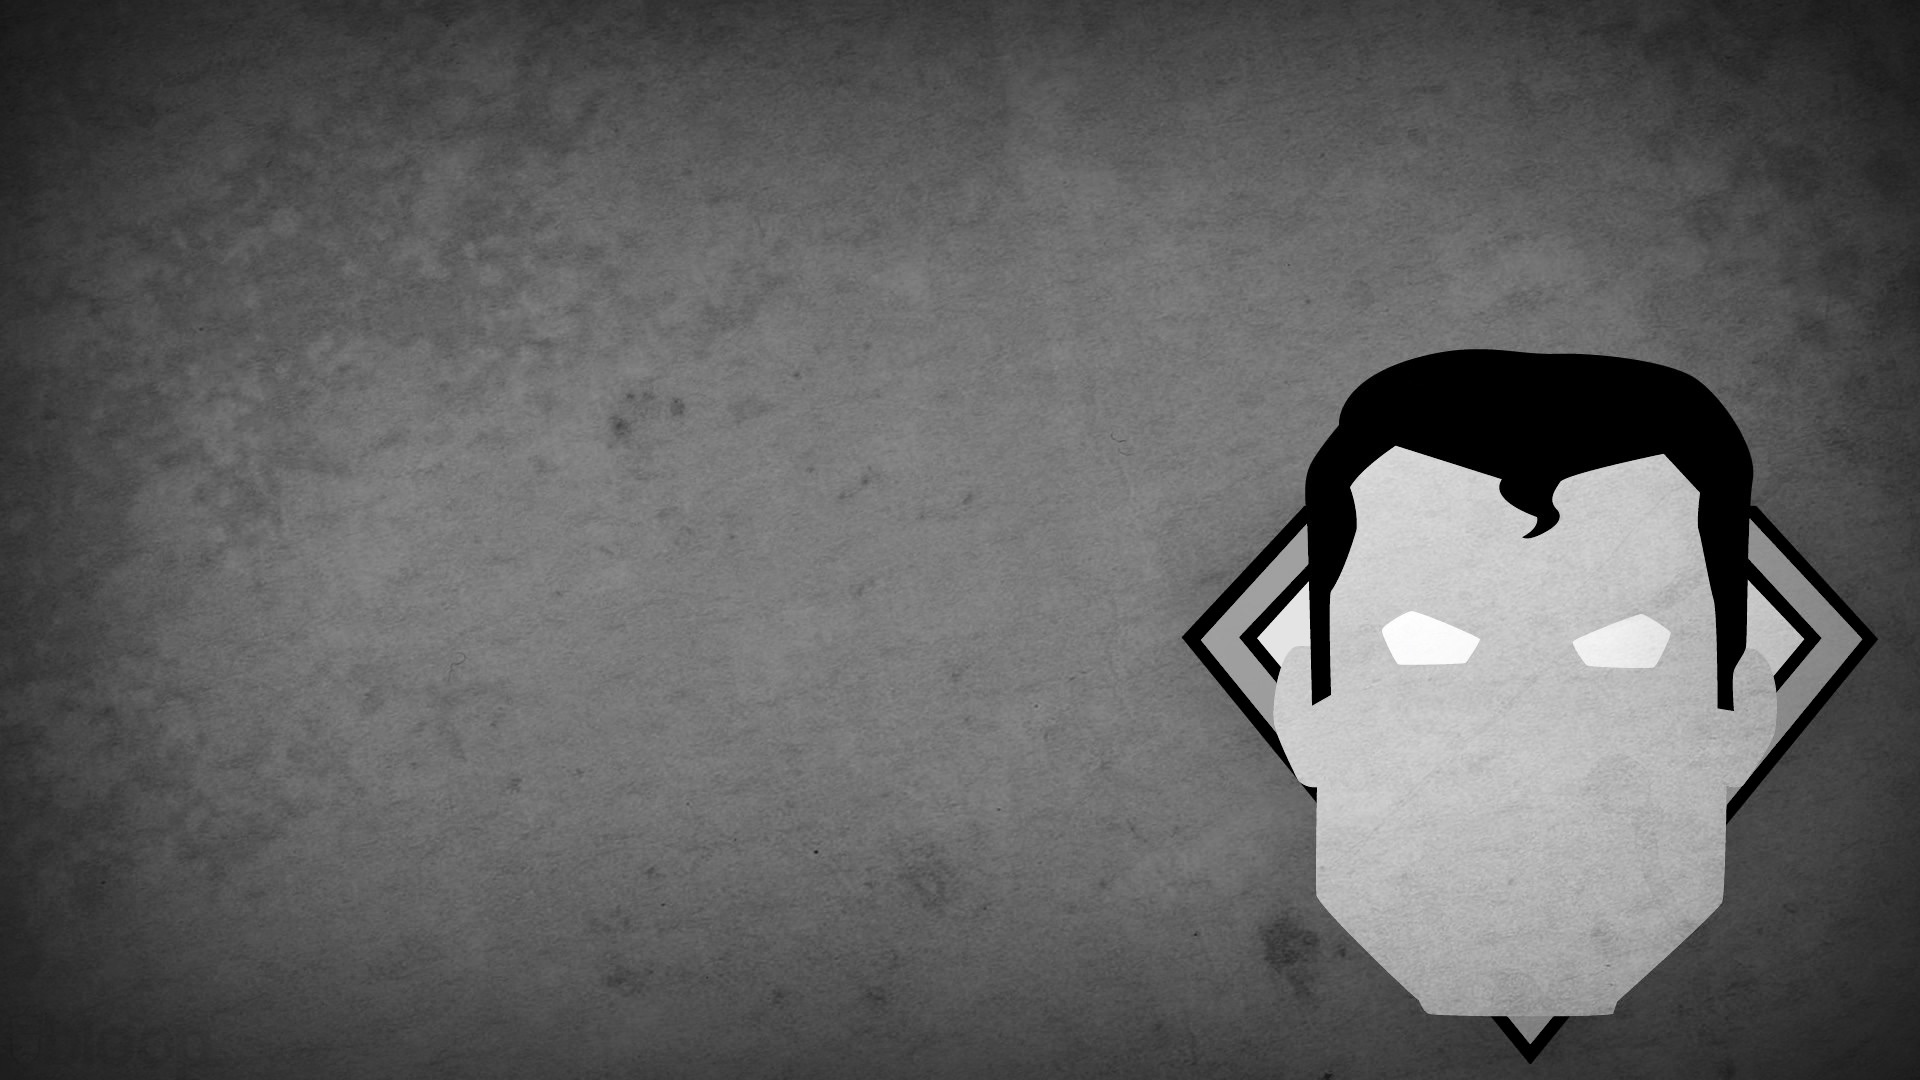
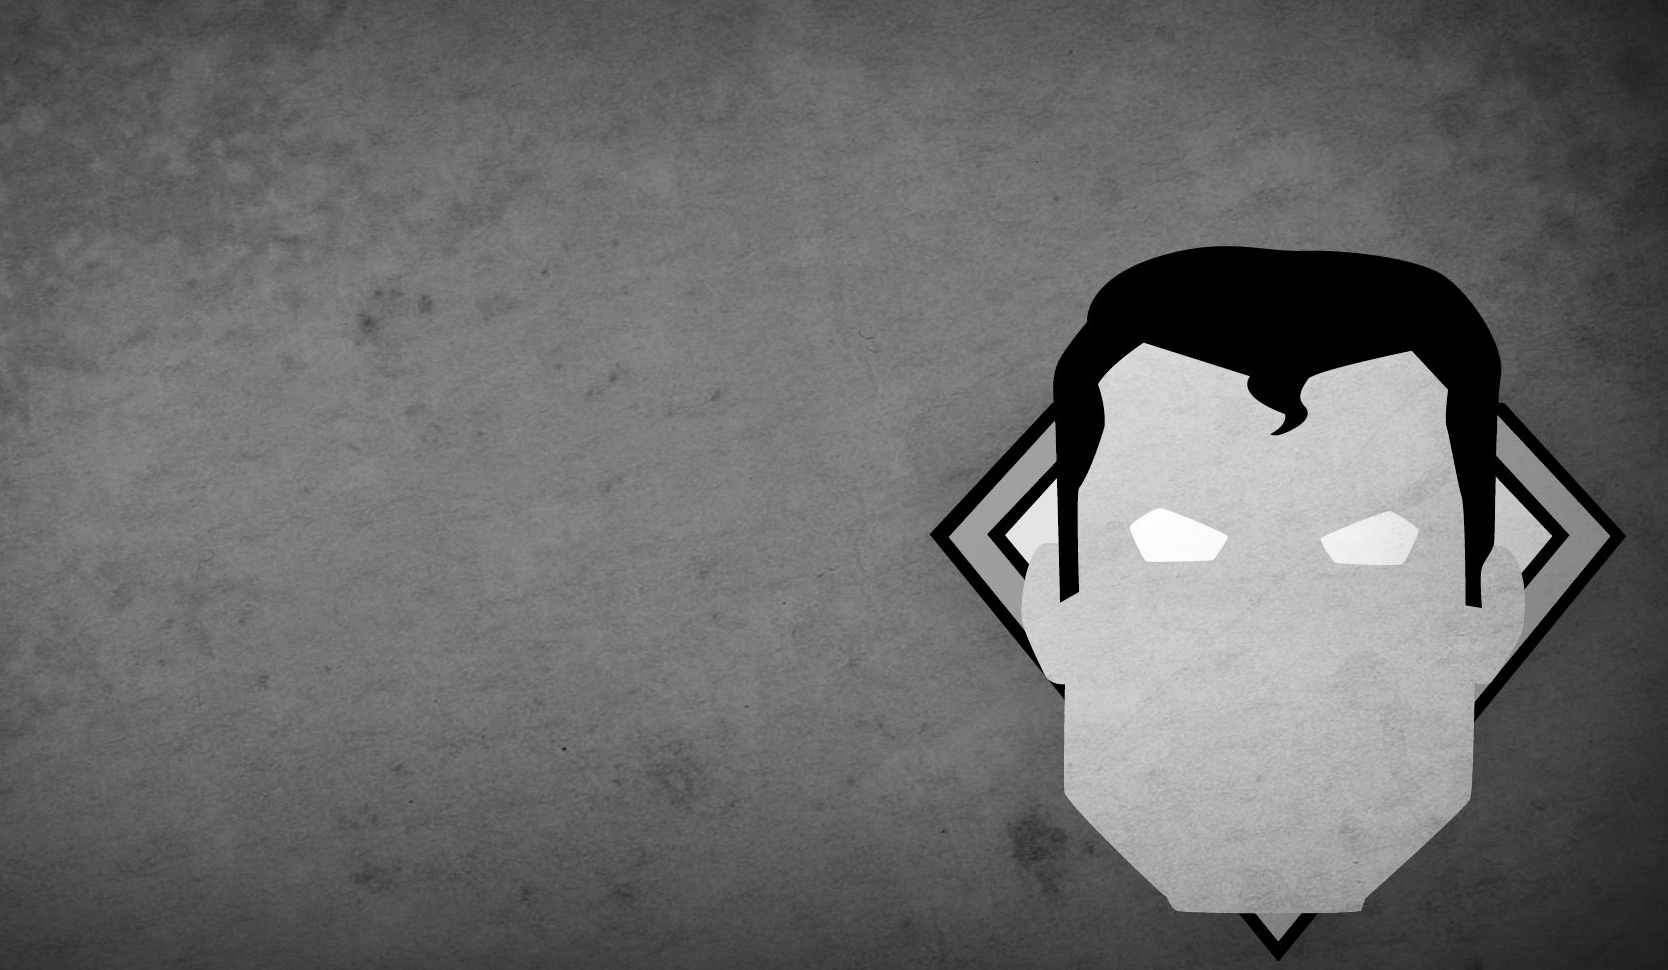
added and updated the style on the search tab

diff --git a/public/stylesheets/members.css b/public/stylesheets/members.css
@@ -7,10 +7,19 @@
   margin: 20px auto;
 }
 
+.navvy {
+  background: inherit;
+}
+
 .navHolder {
   margin: 20px auto;
 }
 
-body {
-  background-image: url("images/superman.jpeg");
+.member {
+  height: 800px;
+  padding: 0px;
+}
+
+.background {
+  background-image: url("/images/superman.jpeg");
 }
